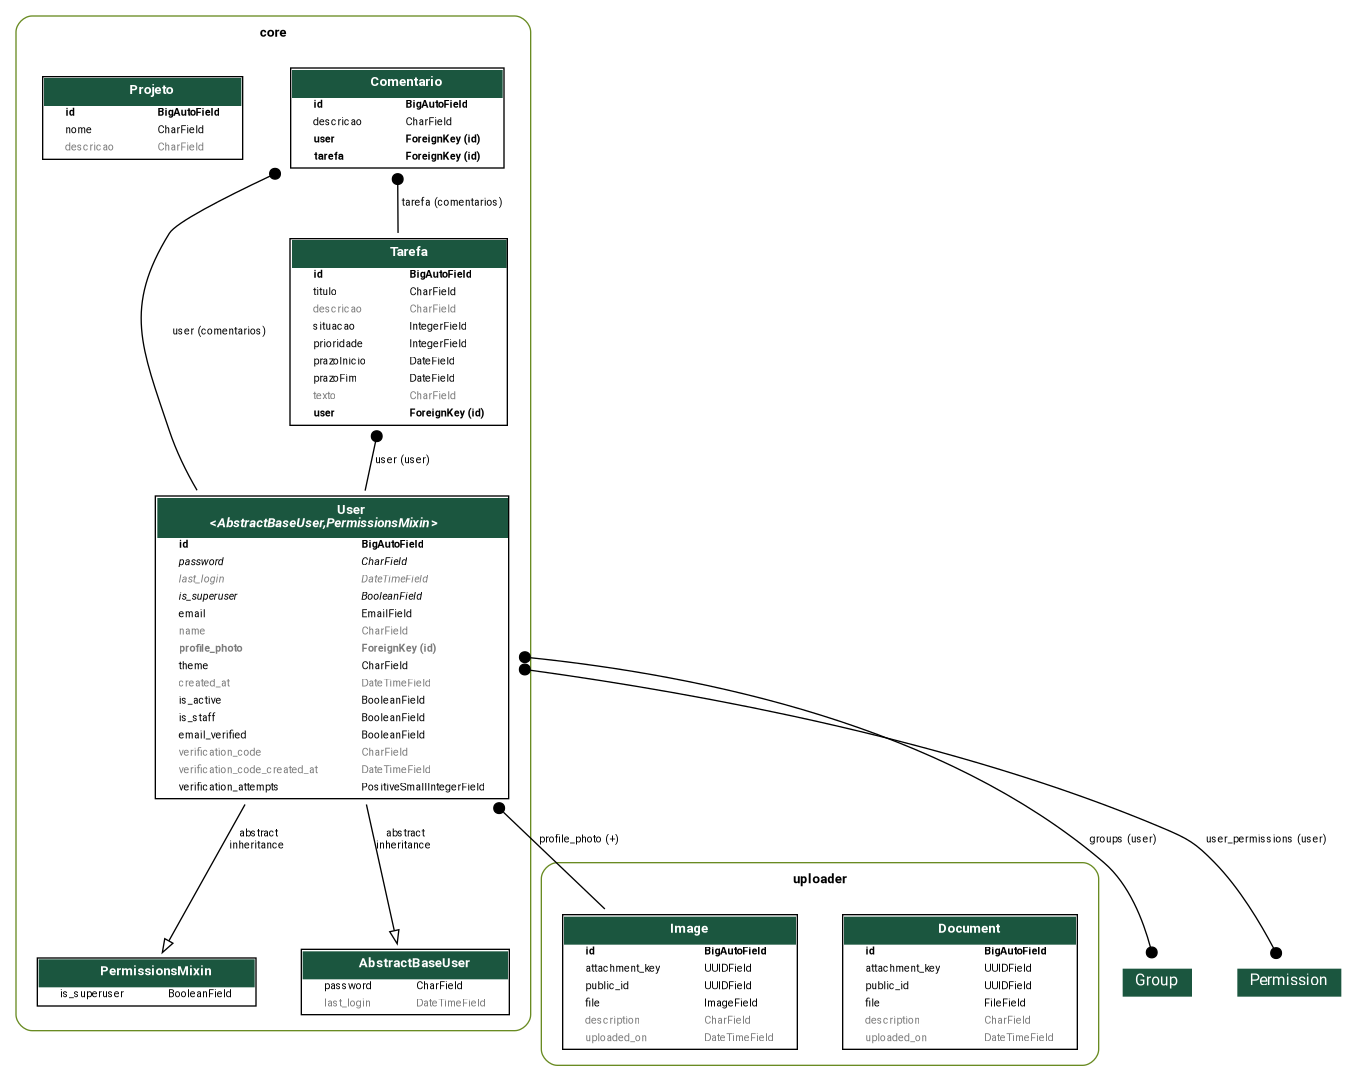
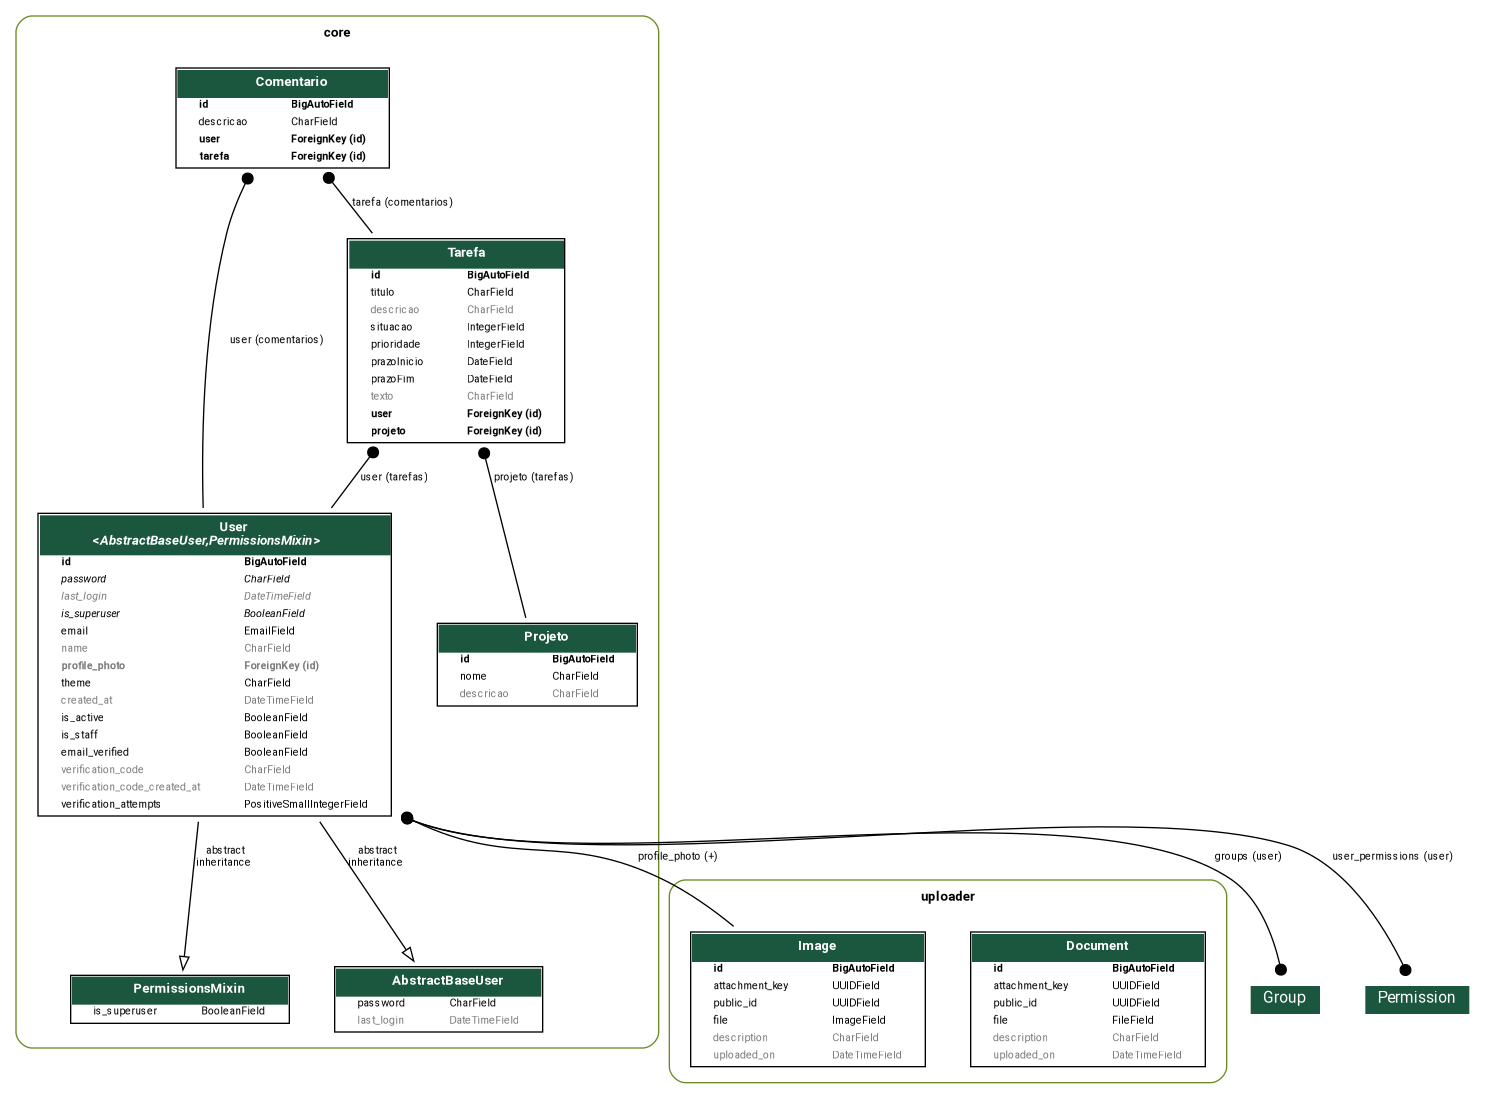
feat: tarefas aninhados ao projeto [ REFS: #10 ]

diff --git a/core/serializers/projeto.py b/core/serializers/projeto.py
@@ -1,9 +1,35 @@
+from django.db import transaction
 from rest_framework.serializers import ModelSerializer
 
-from core.models import Projeto
+from core.models import Projeto, Tarefa
+from core.serializers import TarefaSerializer
 
 
-class ProjetoSerializer(ModelSerializer):
+class ProjetoCreateUpdateSerializer(ModelSerializer):
+    tarefas = TarefaSerializer(many=True, required=False)
     class Meta:
         model = Projeto
-        fields = '__all__'
+        fields = ('id', 'nome', 'descricao', 'tarefas',)
+
+    @transaction.atomic
+    def create(self, validated_data):
+        tarefas = validated_data.pop('tarefas', [])
+        projeto = Projeto.objects.create(**validated_data)
+        for tarefa in tarefas:
+            Tarefa.objects.create(projeto=projeto, **tarefa)
+        projeto.save()
+        return projeto
+
+
+class ProjetoListSerializer(ModelSerializer):
+    tarefas = TarefaSerializer(many=True, read_only=True)
+    class Meta:
+        model = Projeto
+        fields = ('id', 'nome', 'descricao', 'tarefas',)
+
+
+class ProjetoRetrieveSerializer(ModelSerializer):
+    tarefas = TarefaSerializer(many=True, read_only=True)
+    class Meta:
+        model = Projeto
+        fields = ('id', 'nome', 'descricao', 'tarefas',)

diff --git a/core/migrations/0012_alter_tarefa_projeto_alter_tarefa_user.py b/core/migrations/0012_alter_tarefa_projeto_alter_tarefa_user.py
@@ -1,0 +1,25 @@
+# Generated by Django 5.2.18 on 2026-10-23 19:04
+
+import django.db.models.deletion
+from django.conf import settings
+from django.db import migrations, models
+
+
+class Migration(migrations.Migration):
+
+    dependencies = [
+        ('core', '0011_tarefa_projeto'),
+    ]
+
+    operations = [
+        migrations.AlterField(
+            model_name='tarefa',
+            name='projeto',
+            field=models.ForeignKey(on_delete=django.db.models.deletion.PROTECT, related_name='tarefas', to='core.projeto'),
+        ),
+        migrations.AlterField(
+            model_name='tarefa',
+            name='user',
+            field=models.ForeignKey(on_delete=django.db.models.deletion.PROTECT, related_name='tarefas', to=settings.AUTH_USER_MODEL),
+        ),
+    ]

diff --git a/core/views/projeto.py b/core/views/projeto.py
@@ -1,9 +1,15 @@
 from rest_framework.viewsets import ModelViewSet
 
 from core.models import Projeto
-from core.serializers import ProjetoSerializer
+from core.serializers import ProjetoCreateUpdateSerializer, ProjetoListSerializer, ProjetoRetrieveSerializer
 
 
 class ProjetoViewSet(ModelViewSet):
     queryset = Projeto.objects.all()
-    serializer_class = ProjetoSerializer
+
+    def get_serializer_class(self):
+        if self.action in {'create', 'update', 'self.partial_update'}:
+            return ProjetoCreateUpdateSerializer
+        if self.action == 'list':
+            return ProjetoListSerializer
+        return ProjetoRetrieveSerializer

diff --git a/core/models/tarefa.py b/core/models/tarefa.py
@@ -1,6 +1,7 @@
 from django.db import models
 
-from core.models.user import User
+from .projeto import Projeto
+from .user import User
 
 
 class Tarefa(models.Model):
@@ -31,7 +32,9 @@ class Tarefa(models.Model):
     prazoFim = models.DateField()
     texto = models.CharField(max_length=500, null=True, blank=True)
 
-    user = models.ForeignKey(User, related_name='user', on_delete=models.PROTECT)
+    user = models.ForeignKey(User, related_name='tarefas', on_delete=models.PROTECT)
+
+    projeto = models.ForeignKey(Projeto, related_name='tarefas', on_delete=models.PROTECT)
 
     def __str__(self):
         return self.titulo

diff --git a/core/migrations/0011_tarefa_projeto.py b/core/migrations/0011_tarefa_projeto.py
@@ -1,0 +1,20 @@
+# Generated by Django 5.2.18 on 2026-10-23 17:57
+
+import django.db.models.deletion
+from django.db import migrations, models
+
+
+class Migration(migrations.Migration):
+
+    dependencies = [
+        ('core', '0010_tarefa_situacao_alter_tarefa_prioridade'),
+    ]
+
+    operations = [
+        migrations.AddField(
+            model_name='tarefa',
+            name='projeto',
+            field=models.ForeignKey(default=1, on_delete=django.db.models.deletion.PROTECT, related_name='projeto', to='core.projeto'),
+            preserve_default=False,
+        ),
+    ]

diff --git a/core/admin.py b/core/admin.py
@@ -186,6 +186,11 @@ class ComentarioAdmin(admin.ModelAdmin):
     list_per_page = 10
 
 
+class TarefasInline(admin.TabularInline):
+    model = Tarefa
+    extra = 1
+
+
 @admin.register(Projeto)
 class ProjetoAdmin(admin.ModelAdmin):
     list_display = ('nome',)
@@ -193,3 +198,4 @@ class ProjetoAdmin(admin.ModelAdmin):
     list_filter = ('nome',)
     ordering = ('nome',)
     list_per_page = 10
+    inlines = [TarefasInline]

diff --git a/core/serializers/__init__.py b/core/serializers/__init__.py
@@ -8,4 +8,4 @@ from .user import (
 )
 from .tarefa import TarefaSerializer
 from .comentario import ComentarioSerializer
-from .projeto import ProjetoSerializer
+from .projeto import ProjetoCreateUpdateSerializer, ProjetoListSerializer, ProjetoRetrieveSerializer
